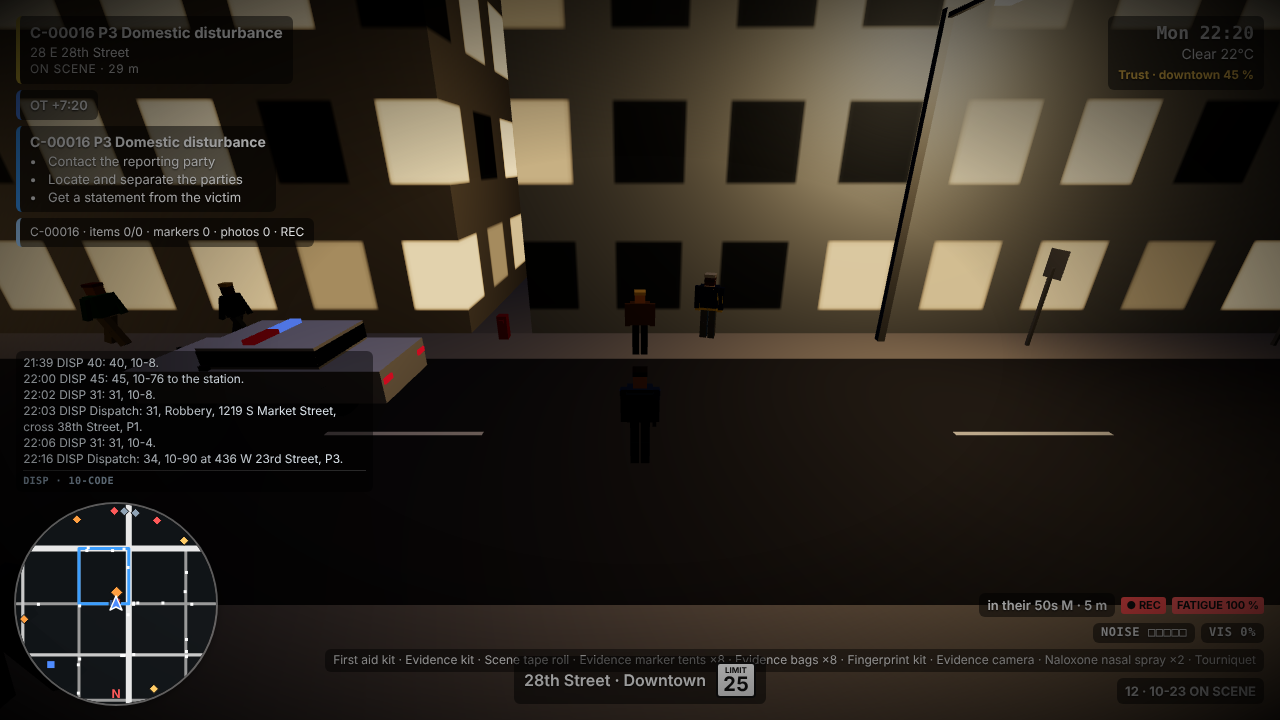
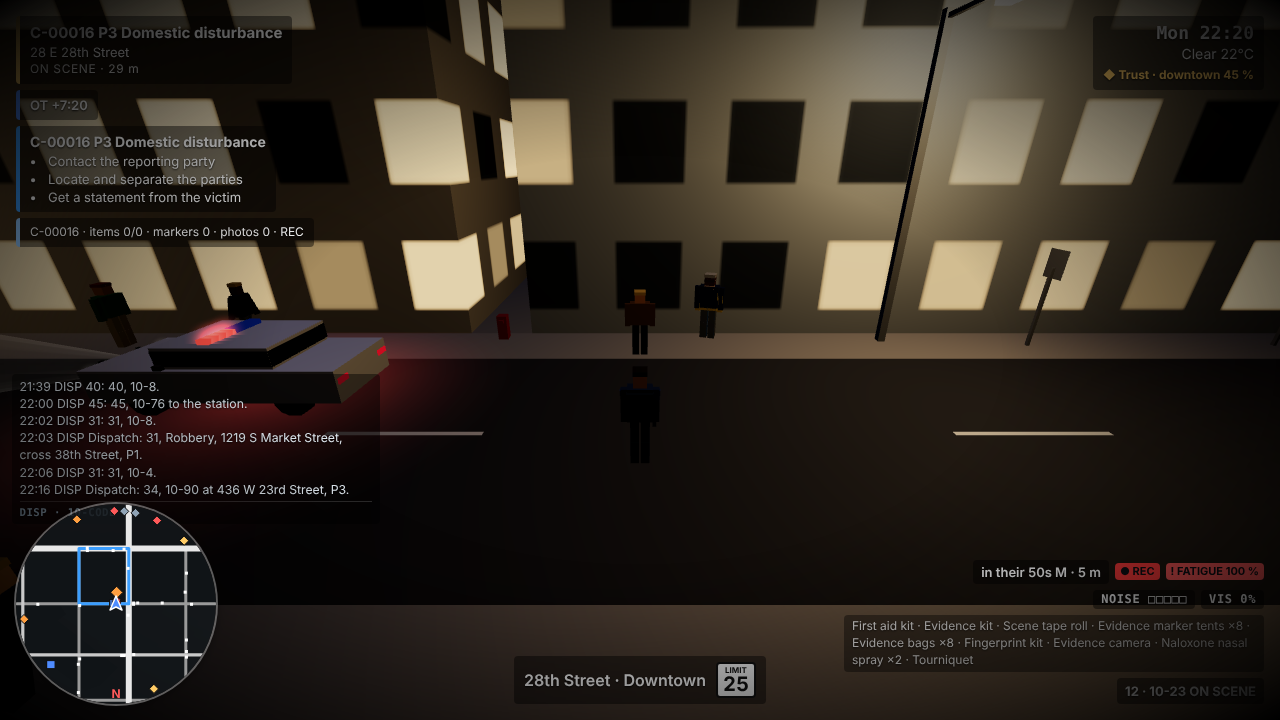
WIP Phase 9: integration checkpoint 2
Claude-Session: https://claude.ai/code/session_01Rvcmrw7QNVTdDc1VKr5xNY

diff --git a/src/game/phase9.ts b/src/game/phase9.ts
@@ -16,6 +16,9 @@ import {
 import type { DrivableVehicle } from '../vehicles/drivableVehicle';
 import type { City } from '../world/city';
 
+/** POIs tried for a tutorial call before giving up. */
+const MAX_CALL_TRIES = 24;
+
 /** Everything the tutorial reads of the rest of the session (the session fills it). */
 export interface Phase9Host {
   readonly bus: EventBus<EventMap>;
@@ -120,33 +123,31 @@ export class Phase9 {
 
   /**
    * The call of a step: at the POI (any kind) whose distance from the player is nearest to the middle of `minM`..`maxM`
-   * (within the range; else the nearest one beyond `minM`), ties to the lower POI id. The dispatcher's own assignment pass
-   * offers a pending call to an available player in a police car.
+   * (within the range; else the nearest ones beyond `maxM`), ties to the lower POI id. A POI the dispatcher cannot place a
+   * call at (no road nearby) is skipped for the next best. The dispatcher's own assignment pass offers a pending call to an
+   * available player in a police car.
    */
   private createCall(typeId: string, minM: number, maxM: number): number {
     const host = this.host;
     const p = host.playerPosition(this.scratch);
     const mid = (minM + maxM) / 2;
-    let best: { x: number; z: number } | null = null;
-    let bestScore = Infinity;
-    let fallback: { x: number; z: number } | null = null;
-    let fallbackD = Infinity;
+    const inRange: { id: number; x: number; z: number; score: number }[] = [];
+    const beyond: { id: number; x: number; z: number; score: number }[] = [];
     for (const poi of host.city.pois) {
       const d = Math.hypot(poi.x - p.x, poi.z - p.z);
-      if (d >= minM && d <= maxM) {
-        const score = Math.abs(d - mid);
-        if (score < bestScore) {
-          bestScore = score;
-          best = poi;
-        }
-      } else if (d > maxM && d < fallbackD) {
-        fallbackD = d;
-        fallback = poi;
-      }
+      if (d >= minM && d <= maxM) inRange.push({ id: poi.id, x: poi.x, z: poi.z, score: Math.abs(d - mid) });
+      else if (d > maxM) beyond.push({ id: poi.id, x: poi.x, z: poi.z, score: d });
     }
-    const at = best ?? fallback;
-    if (at === null) return -1;
-    const call = host.dispatcher.createScriptedCall({ typeId, x: at.x, z: at.z }, host.now());
-    return call === null ? -1 : call.id;
+    const byScore = (a: { id: number; score: number }, b: { id: number; score: number }): number => a.score - b.score || a.id - b.id;
+    inRange.sort(byScore);
+    beyond.sort(byScore);
+    const t = host.now();
+    let tries = 0;
+    for (const at of [...inRange, ...beyond]) {
+      if (tries++ >= MAX_CALL_TRIES) break;
+      const call = host.dispatcher.createScriptedCall({ typeId, x: at.x, z: at.z }, t);
+      if (call !== null) return call.id;
+    }
+    return -1;
   }
 }

diff --git a/src/ui/gamepadNav.ts b/src/ui/gamepadNav.ts
@@ -78,7 +78,8 @@ function isClickable(target: EventTarget): boolean {
 }
 
 /**
- * Per-frame gamepad menu navigation. Call `update(nowMs)` after `InputManager.update()`; it does nothing while no menu is
+ * Per-frame gamepad menu navigation. Call `update(nowMs)` once per frame (the app calls it just before `InputManager.update()`, so
+ * the synthesized keys are read in the same frame); it does nothing while no menu is
  * open (and then forgets held directions, so a stick held while a menu opens does not fire at once).
  */
 export class GamepadNav {
@@ -122,11 +123,26 @@ export class GamepadNav {
     if (this.pad.padPressed(PAD_BUTTON.rb)) this.press('Tab', false);
   }
 
+  /**
+   * keydown on `to`, then keyup. A key that closes its own menu removes `to` from the page, and an event dispatched on a
+   * detached element never reaches the window, so the input manager would keep the key held: the keyup goes to the
+   * element that has the focus now (the page when nothing has).
+   */
+  private tap(to: EventTarget, key: string, shift: boolean): boolean {
+    const free = this.dispatch(to, 'keydown', key, key, shift);
+    let up: EventTarget = to;
+    if ((to as { isConnected?: unknown }).isConnected === false) {
+      const now = this.target.focusTarget();
+      up = now !== null && (now as { isConnected?: unknown }).isConnected !== false ? now : typeof document !== 'undefined' ? document : to;
+    }
+    this.dispatch(up, 'keyup', key, key, shift);
+    return free;
+  }
+
   private arrow(key: string): void {
     const to = this.target.focusTarget();
     if (to === null) return;
-    const free = this.dispatch(to, 'keydown', key, key, false);
-    this.dispatch(to, 'keyup', key, key, false);
+    const free = this.tap(to, key, false);
     if (free) this.target.moveFocus(key === 'ArrowUp' || key === 'ArrowLeft' ? -1 : 1);
   }
 
@@ -137,15 +153,13 @@ export class GamepadNav {
       (to as HTMLElement).click();
       return;
     }
-    this.dispatch(to, 'keydown', 'Enter', 'Enter', false);
-    this.dispatch(to, 'keyup', 'Enter', 'Enter', false);
+    this.tap(to, 'Enter', false);
   }
 
   private press(key: 'Escape' | 'Tab', shift: boolean): void {
     const to = this.target.focusTarget();
     if (to === null) return;
-    const free = this.dispatch(to, 'keydown', key, key, shift);
-    this.dispatch(to, 'keyup', key, key, shift);
+    const free = this.tap(to, key, shift);
     // The browser does not move focus for a synthetic Tab.
     if (free && key === 'Tab') this.target.moveFocus(shift ? -1 : 1);
   }

diff --git a/test/ui9/gamepadNav.test.ts b/test/ui9/gamepadNav.test.ts
@@ -319,3 +319,28 @@ describe('GamepadNav repeat and stick', () => {
     expect(keys(sent)).toEqual(['ArrowDown']);
   });
 });
+
+describe('GamepadNav: a key that closes its own menu', () => {
+  it('sends the keyup to a connected element when the target was removed by the keydown', () => {
+    const detached = { name: 'removed', isConnected: true };
+    const page = { name: 'page', isConnected: true };
+    const s = setup({ target: detached });
+    // The menu closes on the keydown: the element leaves the page and the focus is back on the page.
+    const dispatch: KeyDispatch = (to, type, key, code, shift) => {
+      s.sent.push({ type, key, code, shift, target: to });
+      if (type === 'keydown') {
+        detached.isConnected = false;
+        s.state.focus = page;
+      }
+      return true;
+    };
+    const nav = new GamepadNav(
+      s.pad,
+      { isMenuOpen: () => true, focusTarget: () => s.state.focus as EventTarget | null, moveFocus: () => true },
+      dispatch,
+    );
+    s.pad.press(PAD_BUTTON.b);
+    nav.update(16);
+    expect(s.sent.map((e) => `${e.type}:${e.key}:${(e.target as { name: string }).name}`)).toEqual(['keydown:Escape:removed', 'keyup:Escape:page']);
+  });
+});

diff --git a/src/ui/styles.css b/src/ui/styles.css
@@ -303,7 +303,7 @@ input[type="checkbox"] { accent-color: var(--accent); width: 1.1em; height: 1.1e
 .swatch[data-tone="caution"] { background: var(--c-caution); }
 .swatch[data-tone="alert"] { background: var(--c-alert); }
 
-.save-list { display: flex; flex-direction: column; gap: var(--sp-1); max-height: 40vh; overflow: auto; }
+.save-list { display: flex; flex-direction: column; gap: var(--sp-1); max-height: 40vh; overflow: auto; flex-shrink: 0; }
 .save-list .empty { color: var(--fg-dim); font-style: italic; }
 .save-item { display: flex; justify-content: space-between; gap: var(--sp-2); }
 .save-item .meta { color: var(--fg-dim); font-size: var(--fs-sm); font-family: var(--font-mono); }

diff --git a/src/ui/tutorial/tutorial.css b/src/ui/tutorial/tutorial.css
@@ -4,7 +4,7 @@
 .ui-hud > .tut-card {
   position: absolute;
   left: 50%;
-  bottom: 5em;
+  bottom: 8.5em;
   transform: translateX(-50%);
   width: calc(100% - 2em);
   max-width: 36em;

diff --git a/docs/ARCHITECTURE.md b/docs/ARCHITECTURE.md
@@ -187,6 +187,9 @@ src/
   game/consolePorts.ts    the dispatch console's port over the local CAD (dispatch-only)
   game/phase8Presenter.ts Phase 8 presentation: screens, hosts, cones, console, editor, mod manager, lobby, HUD feed
   game/phase8Commands.ts  career / world / course / dispatchmode / script / sandbox / scenario / mods / coop (mp)
+  game/phase9.ts          Phase9: the tutorial runner of a session, its bus forwarding and the probes / call creation ports (simulation state only)
+  game/phase9Presenter.ts Phase 9 presentation: VfxSystem and the event bridges, the audio frame (velocities, engines, ambience), tutorial card and dialog
+  game/phase9Commands.ts  tutorial [status|skip|end|start]
   server/                 the optional co-op server (Node 22, no dependencies): wsFrames.ts, wsServer.ts, main.ts
   data/                   JSON content: world/, environment/, crime/, vehicles/, physics/, traffic/, records/, cad/,
                           dispatch/, radio/, police/, audio/, people/, calls/, npc/, dialogue/, scene/, interior/, evidence/, tactics/, station/,
@@ -280,7 +283,7 @@ Phase 6 adds (design §15):
 | -665 | `backup` | roster minute tick first, then the officers' FSM per step (observations 4 Hz) and the SWAT team |
 | -662 | `command` | post, triage, transport, TCPs, evacuation, containment, negotiation (work at 4 Hz); traffic blockades and no-go zones on change |
 
-Phase 9 adds (design §14): `tutorial` at **-651** (`TutorialRunner.step()`, only registered while a tutorial is active); the profiler only wraps the existing systems with clock reads.
+Phase 9 adds (design §14): `tutorial` at **-651** (`Phase9.step()` -> `TutorialRunner.step()`; the system is always registered and does nothing without a runner); the profiler only wraps the existing systems with clock reads.
 
 `GameSession.fixedUpdate` multiplies the walking velocity by `tactical.speedFactor()` (no sprint while crouched) or moves the officer with `tactical.sliceMove` while slicing, and keeps the body's y at `levelY(building) + 0.9`.
 
@@ -488,7 +491,9 @@ blur); cheap sprites stand in for it, at most **6 draw calls** in total:
 - **Navigation.** `UIRoot.moveFocus` is the fallback for arrow keys a menu does not handle itself, so every menu works from the keyboard.
   `GamepadNav` (`src/ui/gamepadNav.ts`) reads the pad through `InputManager` (`padPressed / padButton / padAxis`) and, while a menu is open,
   dispatches real `KeyboardEvent`s (D-pad / stick -> arrows with repeat, A -> Enter or a click, B -> Escape, LB / RB -> Shift+Tab / Tab, Start through the
-  `menu.toggle` binding), so the existing Escape and menu semantics are unchanged.
+  `menu.toggle` binding), so the existing Escape and menu semantics are unchanged. The app runs it just before `InputManager.update()` so that the
+  synthesized keys are read in the same frame (a menu that B closes must not also read as a fresh Escape one frame later), and the key-up goes to a
+  connected element when the key closed its own menu (a detached element's event never reaches the window and the key would stay held).
 - **Radio cursor.** `RadioController` keeps a cursor over the enabled options of the radio menu (`state.cursor`, -1 while closed) driven by the modal
   actions `radio.cursorPrev / Next / Select`; `RadioMenuView.show(menu, cursor)` highlights the row.
 - **Settings.** `audio.ambience` (0.7), `audio.ui` (0.6) and `graphics.effects` (`high`); the settings blob stays version 2 (missing fields parse to defaults).
@@ -500,7 +505,7 @@ completes on an **ack**, on the first matching **bus event** (`TUTORIAL_TOPICS`,
 **probe** (`speedKmh`, `driving`, `lightbar`, `siren`, `distanceToCallM`, read from simulation state only). Because the progress is simulation state
 that is saved, the runner follows the simulation rules:
 
-- `TutorialRunner.step()` is the system `tutorial` at fixed step **-651** (only registered while a tutorial is active). Bus handlers never advance
+- `TutorialRunner.step()` is the system `tutorial` at fixed step **-651** (`game/phase9.ts` registers it for every session; without a runner it does nothing). Bus handlers never advance
   it: `onEvent` copies the JSON-safe payload into a **queue** (at most 64 entries) and the player's `ack` / `skip` / `end` are queued commands (at most
   8); the next `step()` applies the commands, runs the step's `enter` actions (`createCall` once per step, guarded by the saved `entered` flag, through the
   port that picks a point of interest at the requested distance deterministically and offers the call to the player unit), matches the queued events
@@ -516,7 +521,7 @@ per system boundary) and the `sim` / `update` / `render` time of every frame (`G
 no allocation after a name was first seen. The F3 overlay lists the top 5 systems. `test/perf/longShift.test.ts` runs 1 game hour (8 with `PATROL_LONG=1`)
 in Node and `test/perf/memory.test.ts` checks heap churn and plateau after forced GC; `scripts/perf.mjs` drives the production build under Chromium and
 reads CDP heap usage and DOM counters at checkpoints (`npm run perf`). Results, the hot spots fixed (traffic allocation and `Math.hypot`, the registry
-clock, loop and mesh-sync allocation) and the ones left (the Rapier soft-body pass in `PhysicsWorld.step`, per-step vehicle scratch vectors) are in
+clock, loop and mesh-sync allocation) (the Rapier soft-body pass in `PhysicsWorld.step`, 40 % of the step, is switched off) and the ones left (per-step vehicle scratch vectors, npc occupants, lane helpers) are in
 `docs/PERFORMANCE.md`.
 
 ### Release tooling
@@ -533,5 +538,5 @@ clock, loop and mesh-sync allocation) and the ones left (the Rapier soft-body pa
 `CURRENT_SAVE_VERSION = 11`. `SaveGameV11 extends SaveGameV10 { tutorial: TutorialSave | null }`, where `TutorialSave` is plain JSON (script id, step
 index, `entered`, bound call id, probe tick, skipped step ids, `done` / `completed`, the bounded event queue and pending commands); `null` means no tutorial in
 this game. `migrateV10ToV11` writes `tutorial: null` (every save from v1 to v10 still loads, and plays on identically to Phase 8). `isSaveGameV11` is the
-v10 check plus `tutorial === null || isTutorialSave(tutorial)`. Load order: ... -> career -> world -> mode -> **tutorial** (a runner is created when the block
-is non-null and not done) -> radio. `rolloverSave` keeps the block as is.
+v10 check plus `tutorial === null || isTutorialSave(tutorial)`. Load order: ... -> radio -> career -> world -> mode -> **tutorial** (a runner is created for any non-null block; a finished
+tutorial stays finished and is saved back as it was). `rolloverSave` keeps the block as is.

diff --git a/docs/PHASES.md b/docs/PHASES.md
@@ -41,7 +41,7 @@ npm run smoke      # headless browser test + docs/screenshots/phase0.png
 
 ### Known limitations
 - Saves (schema v2) restore every body's transform, velocity and sleep state exactly (loading runs one uncounted, gravity-free priming step to rebuild contact pairs, so a settled pile stays asleep and in place), but not Rapier's internal warm-start caches, so a pile that is being pushed at the moment of saving continues slightly differently after a load (a full Rapier snapshot would make it exact but costs ~0.5 MB per save). New games with the same seed and inputs replay exactly, including later sessions in the same page.
-- Audio, colour-vision, subtitle and one-handed settings are stored but hidden from the menu until the systems that use them exist.
+- Audio, colour-vision, subtitle and one-handed settings are stored but hidden from the menu until the systems that use them exist. *(Phase 9: all of them are in the menu now; only `audio.music` stays hidden.)*
 - The player is a box, not a character controller; there is no jumping, slopes or stairs.
 - Under software GL (SwiftShader) the frame rate is ~10 fps and the loop hits its 5-sub-step cap; on a real GPU it runs at the display rate.
 - The Rapier bundle (~4.3 MB) is imported statically; splitting it into a worker/dynamic import is Phase 1+ work.
@@ -110,11 +110,11 @@ npm run smoke      # headless browser test + docs/screenshots/phase1.png, phase1
 
 ### Known limitations
 - The officer on foot is a kinematic box moved by a character controller: buildings, poles, walls and vehicles block it, but it cannot jump or climb.
-- Traffic stops for the player (the driven car or the officer on foot) and for up to 8 parked player vehicles near the focus (the car the officer last left first, then the nearest others); a ninth or later vehicle further away is not seen and gets driven into. Traffic never changes lanes or overtakes; no pedestrians, police AI, audio (the siren key does nothing yet) or traffic stops (Phase 2).
+- Traffic stops for the player (the driven car or the officer on foot) and for up to 8 parked player vehicles near the focus (the car the officer last left first, then the nearest others); a ninth or later vehicle further away is not seen and gets driven into. Traffic never changes lanes or overtakes; no pedestrians, police AI, audio (the siren key does nothing yet) or traffic stops (Phase 2). *(Phase 9: the siren, engine, tyres and ambience are synthesized.)*
 - The world is flat and every road is a straight axis-aligned grid line; the state highway crosses streets at grade with signals.
 - Saves restore every body's pose and velocity but not Rapier's solver caches, so a car saved in motion continues within a few centimetres of the original path; traffic, time, weather and every RNG stream continue exactly.
 - `time HH:MM` only moves forward (an earlier hour means the next day); the weather override lasts until `weather auto`.
-- The plotted route is drawn on the minimap only, with no in-world guidance; the light bar does not light the surroundings (only the headlights have spot lights); four pooled point lights (two with shadows off) light the streetlights nearest the camera, the rest are emissive only.
+- The plotted route is drawn on the minimap only, with no in-world guidance; the light bar does not light the surroundings (only the headlights have spot lights; *Phase 9: glow sprites and a coloured ground pool under the car*); four pooled point lights (two with shadows off) light the streetlights nearest the camera, the rest are emissive only.
 - Under software GL (SwiftShader) the game runs at about 1.5 fps and the loop hits its 5-sub-step cap, so the simulation (and the car) runs slower than real time there; on a real GPU it runs at the display rate.
 
 ## Phase 2 — Police Vehicle, MDT, CAD, Radio
